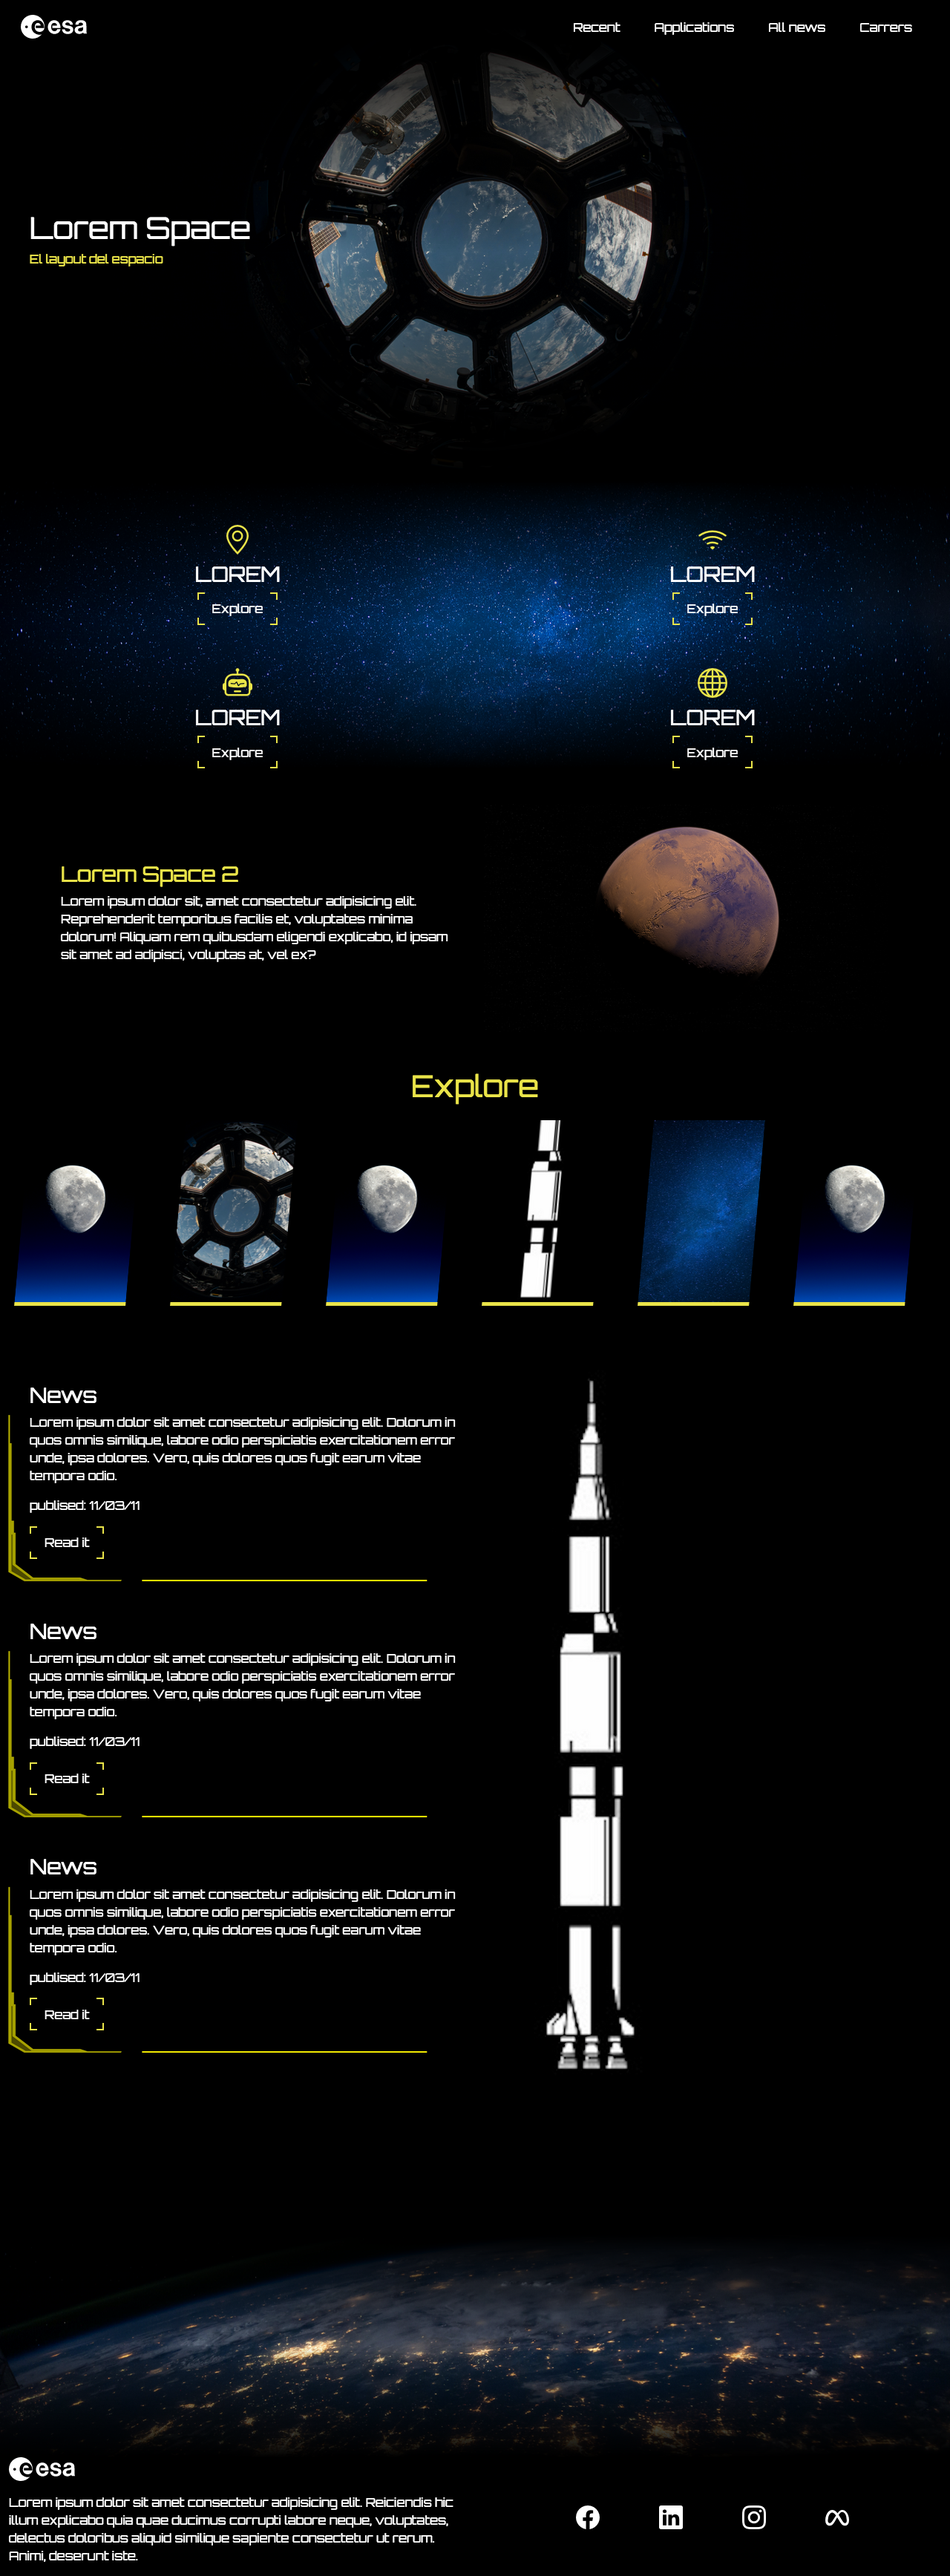
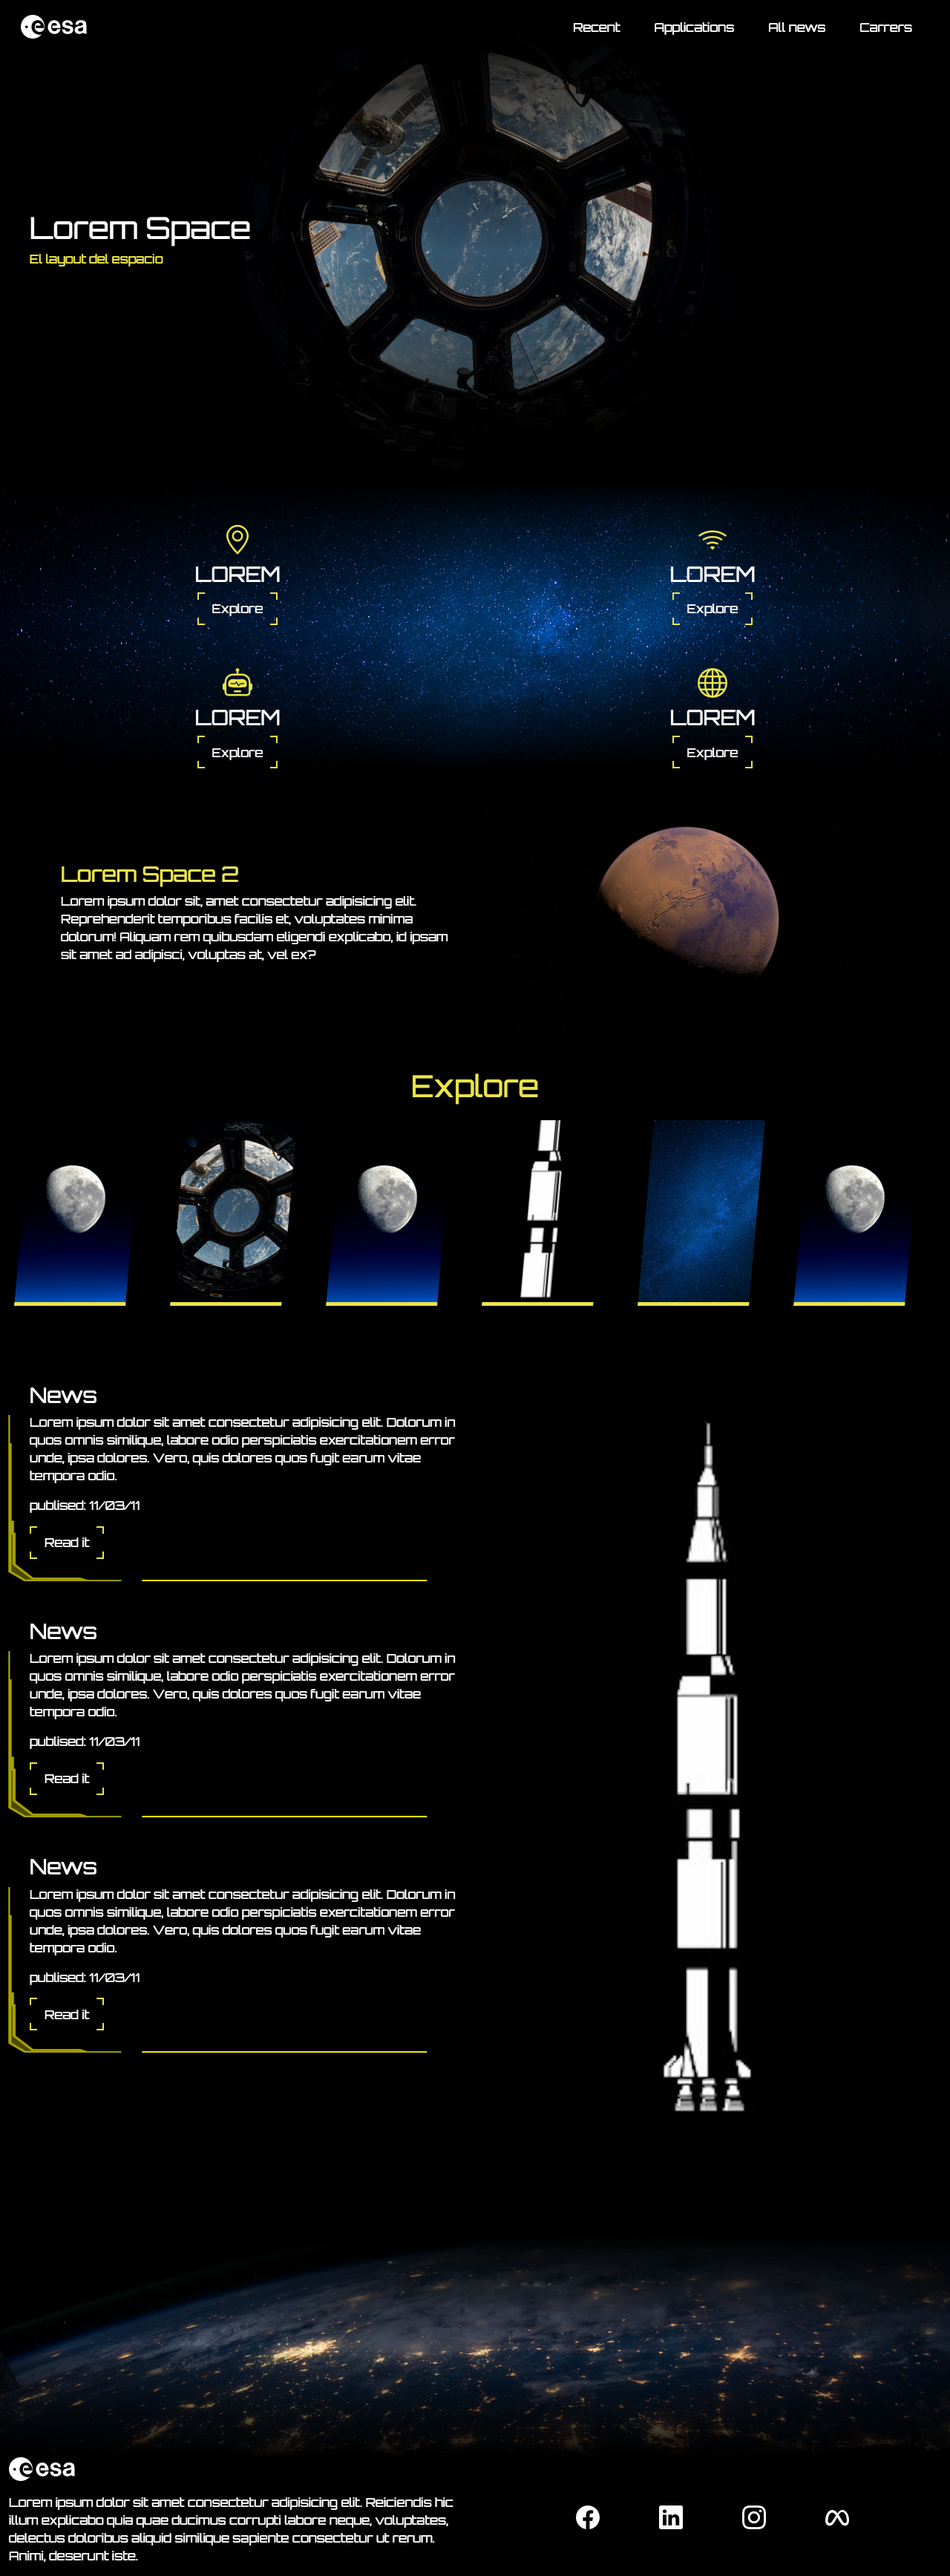
con cohete corregido el flex

Changed region(s): [[0.6875, 0.5602, 0.7812, 0.8403], [0.5625, 0.5291, 0.6562, 0.8092]]

diff --git a/index.html b/index.html
@@ -147,7 +147,7 @@
                     </div>
                 </div>
             </div>
-            <div class="col-12 col-md-6 d-none d-md-block img-fluid d-flex justify-content-center">
+            <div class="col-12 col-md-6 d-none d-md-flex img-fluid justify-content-center align-items-center">
                 <img class="img-news" src="./media/space_shuttle.png"
             </div>
         </div>
